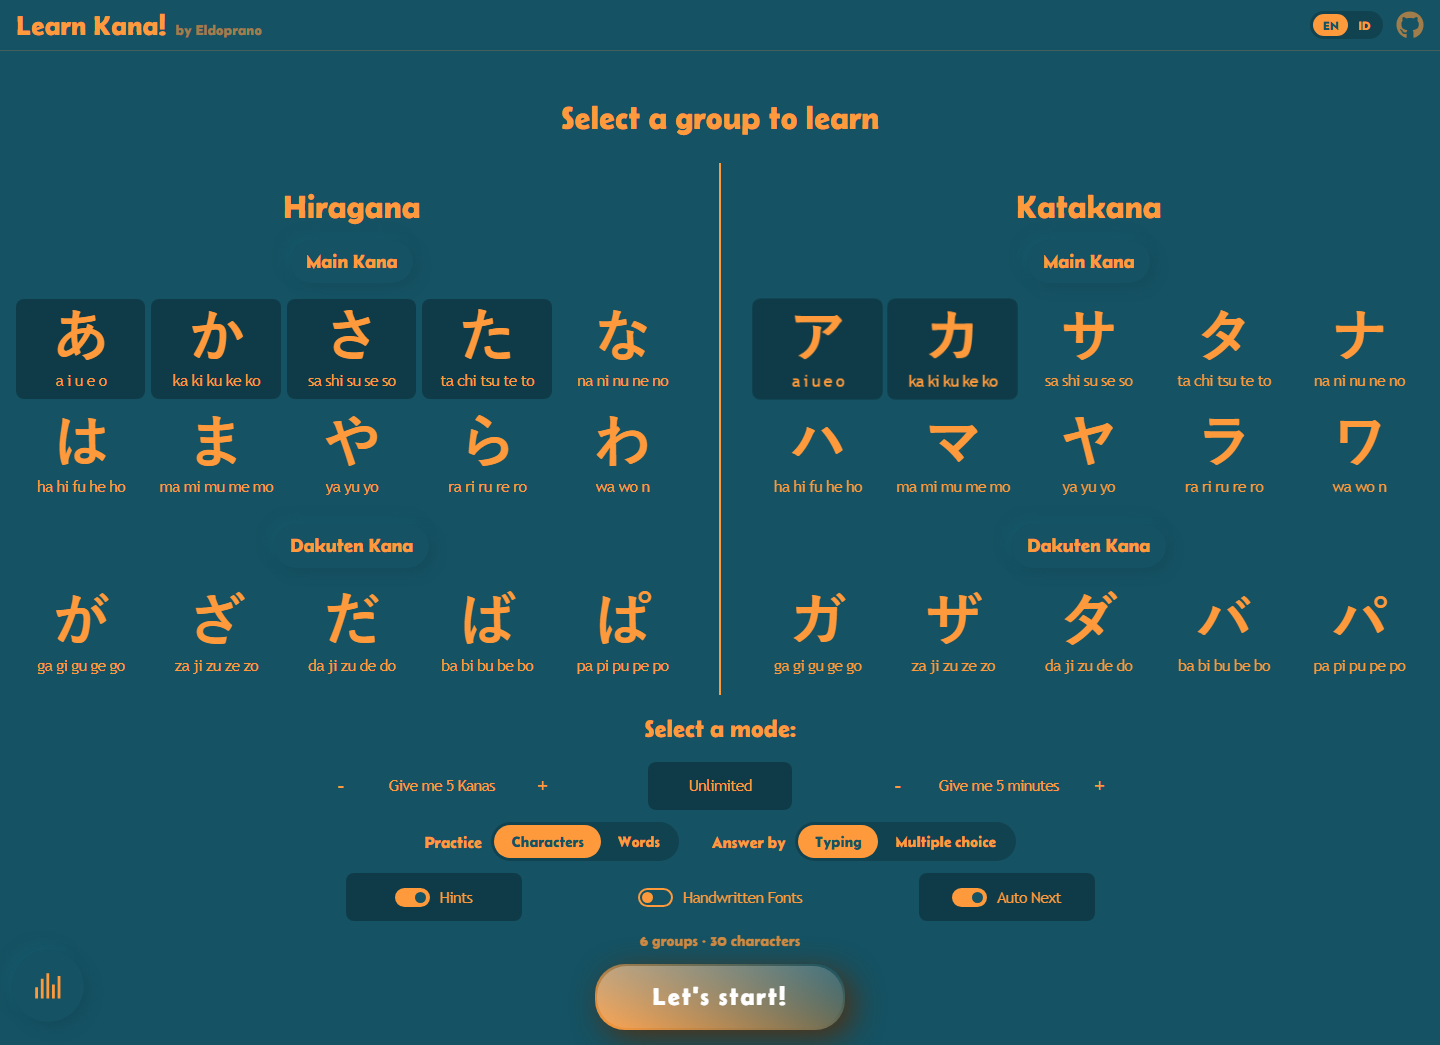
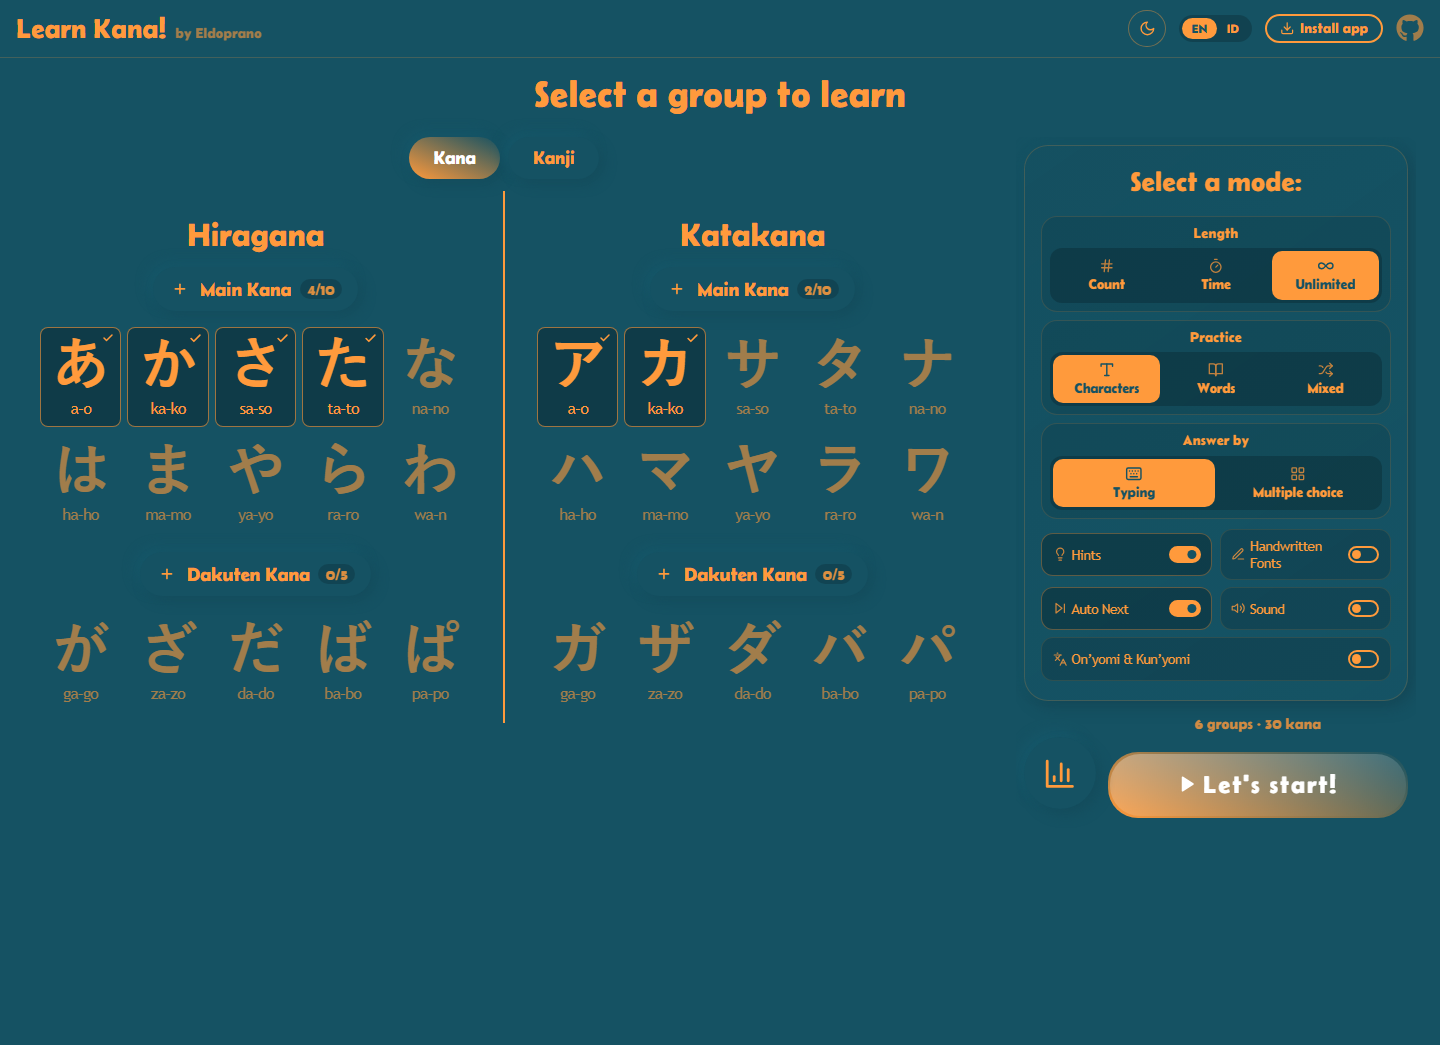
Improve install button and mobile layout
This update adds a dedicated download icon for the PWA install action, keeps the install CTA accessible on small screens, and fixes the sticky selection summary styling so it stays on a solid background. It also refreshes the home screenshots and updates the README image alt text to match the new layout.

diff --git a/src/App.css b/src/App.css
@@ -116,6 +116,9 @@ Navbar
 }
 
 .navbar-install {
+  display: inline-flex;
+  align-items: center;
+  gap: 0.4em;
   border: 2px solid #ff9a3c;
   border-radius: 50em;
   padding: 0.3em 0.9em;
@@ -123,7 +126,24 @@ Navbar
   color: #ff9a3c;
   font-family: var(--ui-font);
   font-size: 0.9em;
+  white-space: nowrap;
   cursor: pointer;
+}
+
+/* On phones the install button is a round icon like the theme toggle, so the navbar fits */
+@media (max-width: 655px) {
+  .navbar-install {
+    justify-content: center;
+    width: 2.25em;
+    height: 2.25em;
+    padding: 0;
+    border-width: 1px;
+    font-size: 1.05em;
+  }
+
+  .navbar-install-label {
+    display: none;
+  }
 }
 
 .github-icon {
@@ -1820,7 +1840,9 @@ Phones
     position: sticky;
     bottom: 0;
     z-index: 50;
-    background: linear-gradient(to top, #155263 70%, #15526300);
+    /* The fade stays in the top padding, so the selection summary always sits on a solid background */
+    padding-top: 1.2em;
+    background: linear-gradient(to top, #155263 calc(100% - 1.2em), #15526300);
   }
 
   .game-menu-start {
@@ -2567,7 +2589,7 @@ html[data-theme='dark'] .game-mode-selector-group {
 }
 
 html[data-theme='dark'] .game-menu-start-bar {
-  background-image: linear-gradient(to top, #2a373d 70%, #2a373d00);
+  background-image: linear-gradient(to top, #2a373d calc(100% - 1.2em), #2a373d00);
 }
 
 html[data-theme='dark'] .progress-stats-grid-container,

diff --git a/src/components/Navbar.js b/src/components/Navbar.js
@@ -64,7 +64,12 @@ export default function Navbar() {
               </button>
             ))}
           </div>
-          {deferredPrompt && <button className='navbar-install' onClick={handleInstallClick}>{t('navbarInstall')}</button>}
+          {deferredPrompt && (
+            <button className='navbar-install' onClick={handleInstallClick} aria-label={t('navbarInstall')} title={t('navbarInstall')}>
+              <Icon name='download' />
+              <span className='navbar-install-label'>{t('navbarInstall')}</span>
+            </button>
+          )}
           <a href="https://github.com/Yunnie-pin/learn-kana" className="github-icon" target="_blank" rel="noreferrer" title={t('navbarGitHub')}>
             <svg xmlns="http://www.w3.org/2000/svg" viewBox="0 0 496 512">
               {/* <!--!Font Awesome Free 6.5.2 by @fontawesome - https://fontawesome.com License - https://fontawesome.com/license/free Copyright 2024 Fonticons, Inc.--> */}

diff --git a/src/components/Icon.js b/src/components/Icon.js
@@ -58,6 +58,11 @@ const ICON_PATHS = {
   </>,
   moon: <path d="M12 3a6 6 0 0 0 9 9 9 9 0 1 1-9-9Z" />,
   minus: <path d="M5 12h14" />,
+  download: <>
+    <path d="M21 15v4a2 2 0 0 1-2 2H5a2 2 0 0 1-2-2v-4" />
+    <path d="m7 10 5 5 5-5" />
+    <path d="M12 15V3" />
+  </>,
   'book-open': <>
     <path d="M2 3h6a4 4 0 0 1 4 4v14a3 3 0 0 0-3-3H2z" />
     <path d="M22 3h-6a4 4 0 0 0-4 4v14a3 3 0 0 1 3-3h7z" />

diff --git a/README.md b/README.md
@@ -8,9 +8,9 @@ Practice hiragana and katakana right in the browser, on desktop or phone. Pick t
 > The original version is live on [GitHub Pages](https://eldoprano.github.io/learn-kana/) and [Cloudflare Pages](https://learn-kana.pages.dev/).
 
 <p align="center">
-  <img src="docs/screenshots/home-desktop.png" alt="Learn Kana home page on desktop: hiragana and katakana group selection with game mode options" width="68%">
+  <img src="docs/screenshots/home-desktop.png" alt="Learn Kana home page on desktop: hiragana and katakana group selection, with the mode panel on the side" width="68%">
   &nbsp;
-  <img src="docs/screenshots/home-mobile.png" alt="Learn Kana home page on mobile, with hiragana / katakana tabs and a sticky start button" width="24%">
+  <img src="docs/screenshots/home-mobile.png" alt="Learn Kana home page on mobile, with hiragana / katakana / kanji tabs and a sticky start button" width="24%">
 </p>
 
 ## Features
